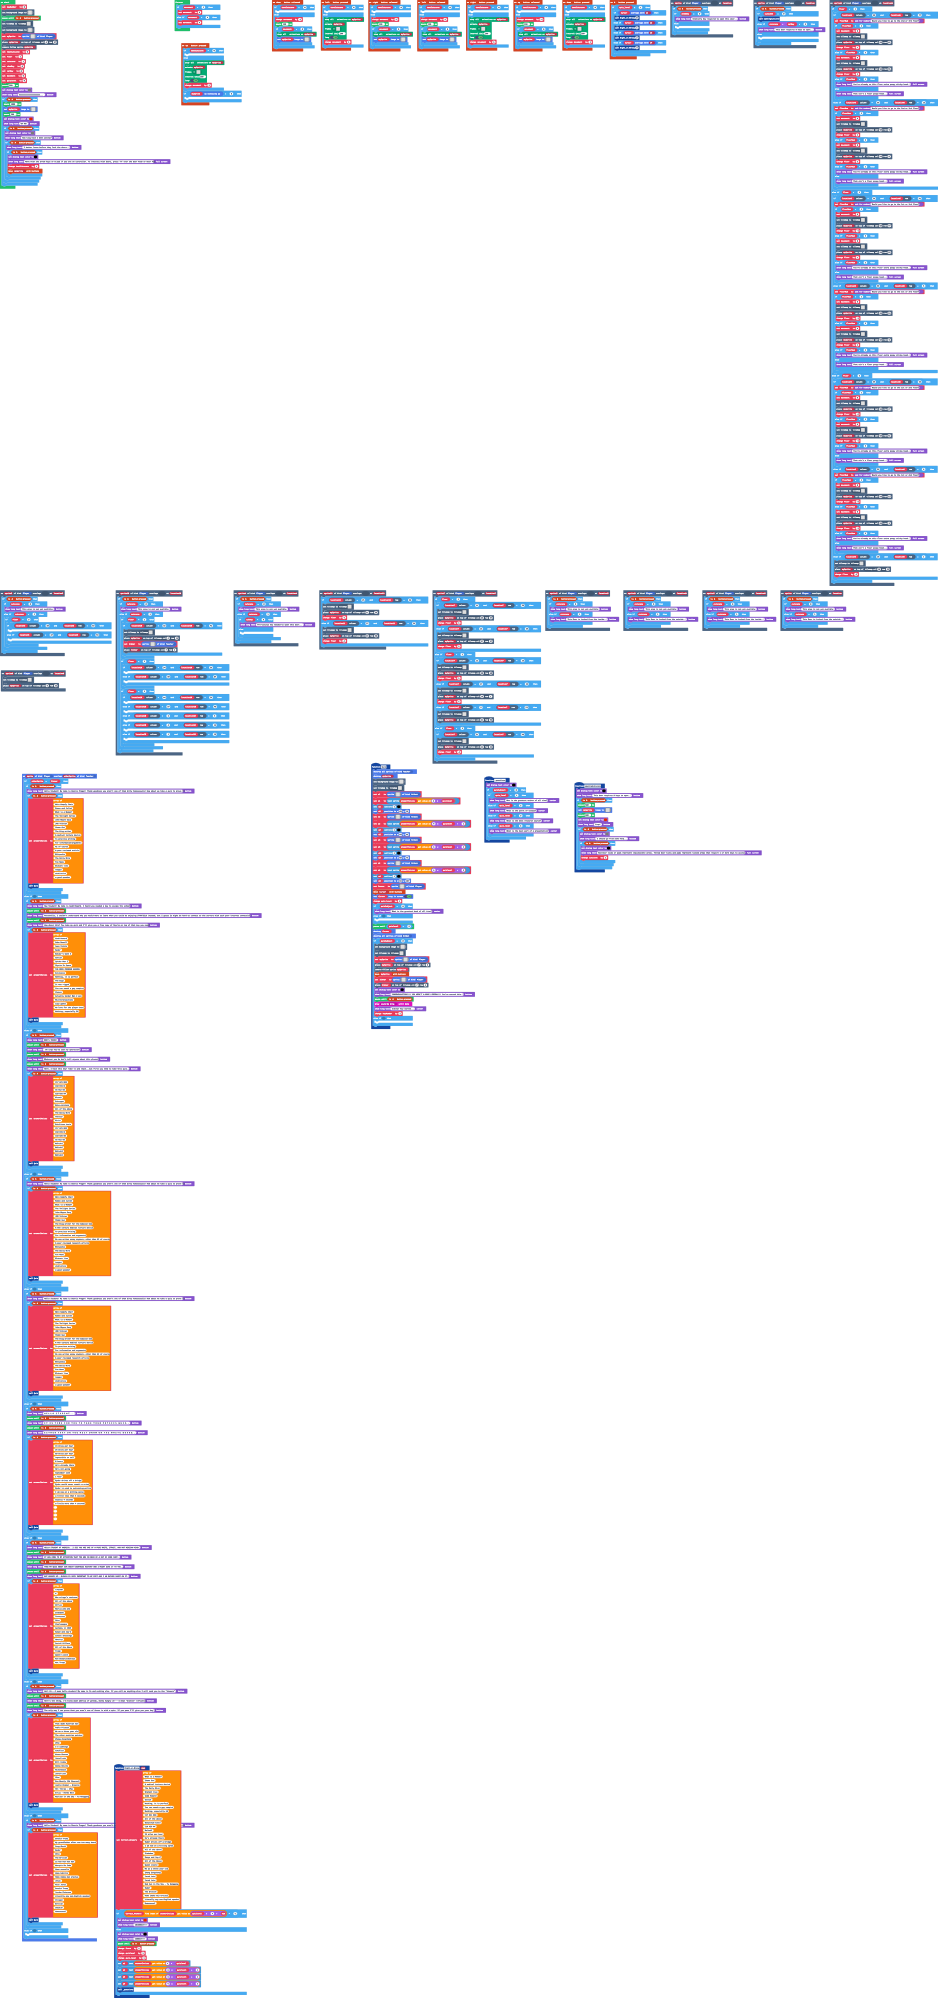
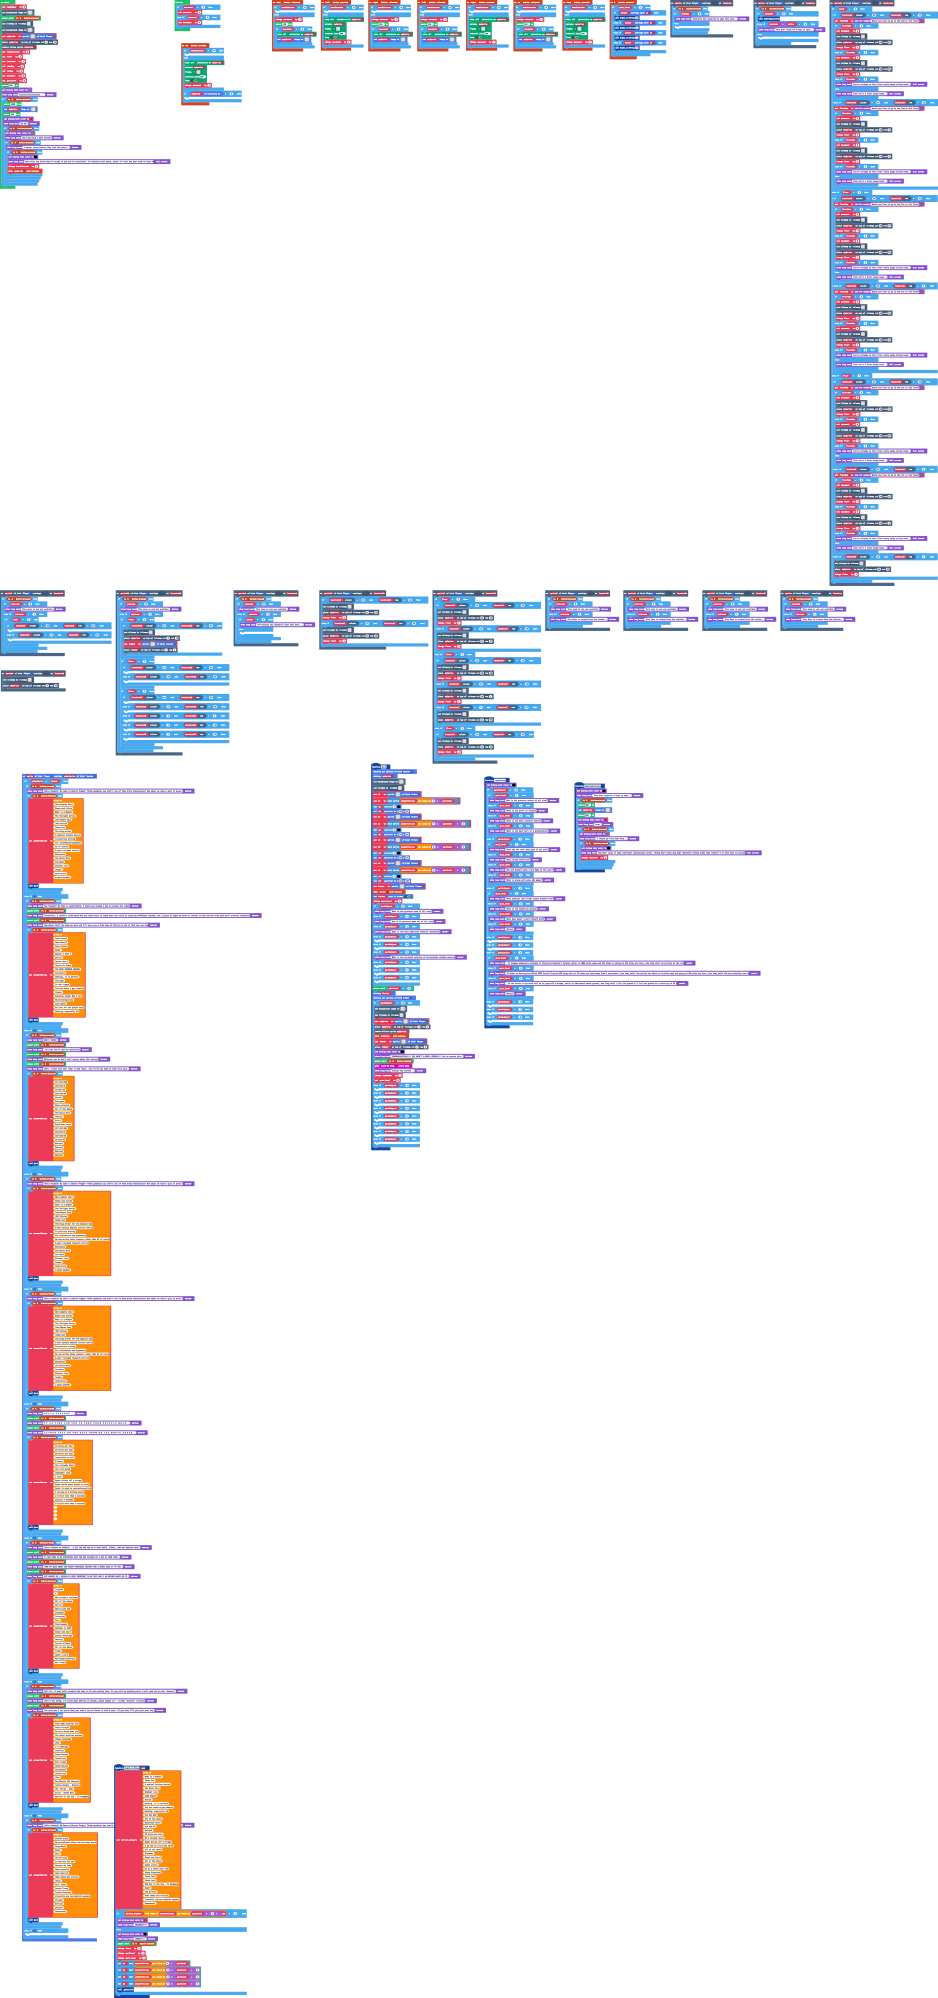
Update main.blocks, main.ts

Changed region(s): [[0.371, 0.4034, 0.742, 0.5896]]

diff --git a/main.ts b/main.ts
@@ -854,7 +854,21 @@ function Quiz () {
     quiz_level += 1
     if (quizSubject == 0) {
         game.showLongText("What is the greatest book of all time?", DialogLayout.Center)
-    } else if (false) {
+    } else if (quizSubject == 1) {
+        game.showLongText("Who is th greatest game dev of all time?", DialogLayout.Center)
+    } else if (quizSubject == 2) {
+        game.showLongText("What is the most addictive chemical substance?", DialogLayout.Center)
+    } else if (quizSubject == 3) {
+    	
+    } else if (quizSubject == 4) {
+    	
+    } else if (quizSubject == 5) {
+        game.showLongText("What is the airspeed velocity of an European unladen sparrow?", DialogLayout.Center)
+    } else if (quizSubject == 6) {
+    	
+    } else if (quizSubject == 7) {
+    	
+    } else if (quizSubject == 8) {
     	
     }
     pauseUntil(() => quizlevel == 5)
@@ -1013,7 +1027,22 @@ function Quiz () {
         music.play(music.melodyPlayable(music.baDing), music.PlaybackMode.UntilDone)
         game.showLongText("Siminar Key earned...", DialogLayout.Center)
         keyNumber += 1
-    } else if (false) {
+        quiz_level = 0
+    } else if (quizSubject == 1) {
+    	
+    } else if (quizSubject == 2) {
+    	
+    } else if (quizSubject == 3) {
+    	
+    } else if (quizSubject == 4) {
+    	
+    } else if (quizSubject == 5) {
+    	
+    } else if (quizSubject == 6) {
+    	
+    } else if (quizSubject == 7) {
+    	
+    } else if (quizSubject == 8) {
     	
     }
 }
@@ -1902,6 +1931,46 @@ function _questions () {
         } else if (quiz_level == 4) {
             game.showLongText("What is the best part of a presentation?", DialogLayout.Center)
         }
+    } else if (quizSubject == 1) {
+        if (quiz_level == 1) {
+            game.showLongText("What was the real 2023 game of the year?", DialogLayout.Center)
+        } else if (quiz_level == 2) {
+            game.showLongText("What ruined Starfield?", DialogLayout.Center)
+        } else if (quiz_level == 3) {
+            game.showLongText("Why did Bolders Gate 3 win Game of the year??", DialogLayout.Center)
+        } else if (quiz_level == 4) {
+            game.showLongText("What is wrong with many AAA games?", DialogLayout.Center)
+        }
+    } else if (quizSubject == 2) {
+        if (quiz_level == 1) {
+            game.showLongText("What chemical does Trump inject himself with?", DialogLayout.Center)
+        } else if (quiz_level == 2) {
+            game.showLongText("What is the deadliest poison?", DialogLayout.Center)
+        } else if (quiz_level == 3) {
+            game.showLongText("What does Ryder inject himself with?", DialogLayout.Center)
+        } else if (quiz_level == 4) {
+            game.showLongText("Waltuh", DialogLayout.Center)
+        }
+    } else if (quizSubject == 3) {
+    	
+    } else if (quizSubject == 4) {
+    	
+    } else if (quizSubject == 5) {
+        if (quiz_level == 1) {
+            game.showLongText(" If Stephen Hawking’s airplane is flying to Epstein’s Island, which is 1000 miles away and the plane is going at 125 miles per hour, how long until he arrives at the island?", DialogLayout.Center)
+        } else if (quiz_level == 2) {
+            game.showLongText("If Ryder is driving his White 2023 Ford E-Transit-350 Cargo Van at 75 miles per hour away from a pre-school, how long until the police car which is 5 miles away and going at 80 miles per hour, how long until the pre-schoolers are saved? ", DialogLayout.Center)
+        } else if (quiz_level == 3) {
+            game.showLongText(" If the voices in my head tell me to jump off a bridge, which is 100 meters above ground, how long until I hit the ground if I hit the ground at a velocity of 25 m/s?", DialogLayout.Center)
+        } else if (quiz_level == 4) {
+            game.showLongText("Waltuh", DialogLayout.Center)
+        }
+    } else if (quizSubject == 6) {
+    	
+    } else if (quizSubject == 7) {
+    	
+    } else if (quizSubject == 8) {
+    	
     }
 }
 scene.onOverlapTile(SpriteKind.Player, assets.tile`myTile44`, function (sprite10, location10) {
